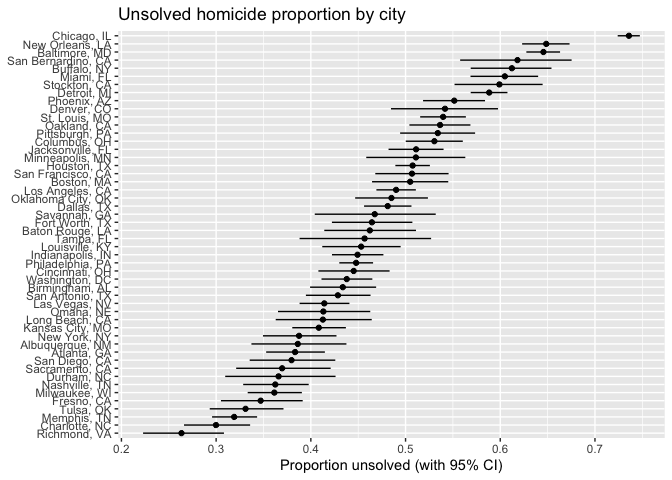
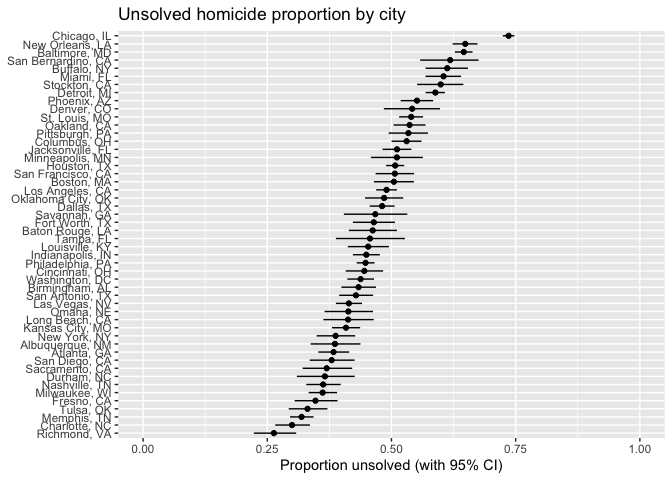
Modify graph in Problem 3

diff --git a/p8105_hw5_mk4996.md b/p8105_hw5_mk4996.md
@@ -65,7 +65,7 @@ power_df = sim_p2 |>
 power_df |>
   ggplot(aes(x = mu_true, y = power)) +
   geom_line() + geom_point() +
-  labs(x = "True mean (mu)", y = "Power",
+  labs(x = "True mean (mu)", y = "Power (proportion)",
        title = "One-sample t-test power vs effect size")
 ```
 
@@ -93,7 +93,7 @@ avg_df |>
   pivot_longer(-mu_true, names_to = "which", values_to = "avg_mu_hat") |>
   ggplot(aes(x = mu_true, y = avg_mu_hat, color = which)) +
   geom_line() + geom_point() +
-  labs(x = "True mean (mu)", y = "Average of mu_hat",
+  labs(x = "True mean (mu)", y = "Average estimate of mu_hat",
        title = "Selection-induced bias when conditioning on rejection")
 ```
 
@@ -231,75 +231,175 @@ city_summary = homi_clean |>
   group_by(city_state) |>
   summarise(
     n_total    = n(),
-    n_unsolved = sum(unsolved)
+    n_unsolved = sum(unsolved),
+    .groups = "drop"
   ) |>
   mutate(prop_unsolved = n_unsolved / n_total)
 
-city_summary |>
+city_summary1_tbl = city_summary |>
   arrange(desc(n_total)) |>
-  knitr::kable(digits = 3,
-               col.names = c("City, State", "Total", "Unsolved", "Prop. Unsolved"))
+  select(city_state, n_total)
+
+city_summary1 = city_summary1_tbl |>
+  knitr::kable(digits = 0,
+               col.names = c("City, State", "Total"))
+city_summary1
 ```
 
-| City, State        | Total | Unsolved | Prop. Unsolved |
-|:-------------------|------:|---------:|---------------:|
-| Chicago, IL        |  5535 |     4073 |          0.736 |
-| Philadelphia, PA   |  3037 |     1360 |          0.448 |
-| Houston, TX        |  2942 |     1493 |          0.507 |
-| Baltimore, MD      |  2827 |     1825 |          0.646 |
-| Detroit, MI        |  2519 |     1482 |          0.588 |
-| Los Angeles, CA    |  2257 |     1106 |          0.490 |
-| St. Louis, MO      |  1677 |      905 |          0.540 |
-| Dallas, TX         |  1567 |      754 |          0.481 |
-| Memphis, TN        |  1514 |      483 |          0.319 |
-| New Orleans, LA    |  1434 |      930 |          0.649 |
-| Las Vegas, NV      |  1381 |      572 |          0.414 |
-| Washington, DC     |  1345 |      589 |          0.438 |
-| Indianapolis, IN   |  1322 |      594 |          0.449 |
-| Kansas City, MO    |  1190 |      486 |          0.408 |
-| Jacksonville, FL   |  1168 |      597 |          0.511 |
-| Milwaukee, WI      |  1115 |      403 |          0.361 |
-| Columbus, OH       |  1084 |      575 |          0.530 |
-| Atlanta, GA        |   973 |      373 |          0.383 |
-| Oakland, CA        |   947 |      508 |          0.536 |
-| Phoenix, AZ        |   914 |      504 |          0.551 |
-| San Antonio, TX    |   833 |      357 |          0.429 |
-| Birmingham, AL     |   800 |      347 |          0.434 |
-| Nashville, TN      |   767 |      278 |          0.362 |
-| Miami, FL          |   744 |      450 |          0.605 |
-| Cincinnati, OH     |   694 |      309 |          0.445 |
-| Charlotte, NC      |   687 |      206 |          0.300 |
-| Oklahoma City, OK  |   672 |      326 |          0.485 |
-| San Francisco, CA  |   663 |      336 |          0.507 |
-| Pittsburgh, PA     |   631 |      337 |          0.534 |
-| New York, NY       |   627 |      243 |          0.388 |
-| Boston, MA         |   614 |      310 |          0.505 |
-| Tulsa, OK          |   583 |      193 |          0.331 |
-| Louisville, KY     |   576 |      261 |          0.453 |
-| Fort Worth, TX     |   549 |      255 |          0.464 |
-| Buffalo, NY        |   521 |      319 |          0.612 |
-| Fresno, CA         |   487 |      169 |          0.347 |
-| San Diego, CA      |   461 |      175 |          0.380 |
-| Stockton, CA       |   444 |      266 |          0.599 |
-| Richmond, VA       |   429 |      113 |          0.263 |
-| Baton Rouge, LA    |   424 |      196 |          0.462 |
-| Omaha, NE          |   409 |      169 |          0.413 |
-| Albuquerque, NM    |   378 |      146 |          0.386 |
-| Long Beach, CA     |   378 |      156 |          0.413 |
-| Sacramento, CA     |   376 |      139 |          0.370 |
-| Minneapolis, MN    |   366 |      187 |          0.511 |
-| Denver, CO         |   312 |      169 |          0.542 |
-| Durham, NC         |   276 |      101 |          0.366 |
-| San Bernardino, CA |   275 |      170 |          0.618 |
-| Savannah, GA       |   246 |      115 |          0.467 |
-| Tampa, FL          |   208 |       95 |          0.457 |
+| City, State        | Total |
+|:-------------------|------:|
+| Chicago, IL        |  5535 |
+| Philadelphia, PA   |  3037 |
+| Houston, TX        |  2942 |
+| Baltimore, MD      |  2827 |
+| Detroit, MI        |  2519 |
+| Los Angeles, CA    |  2257 |
+| St. Louis, MO      |  1677 |
+| Dallas, TX         |  1567 |
+| Memphis, TN        |  1514 |
+| New Orleans, LA    |  1434 |
+| Las Vegas, NV      |  1381 |
+| Washington, DC     |  1345 |
+| Indianapolis, IN   |  1322 |
+| Kansas City, MO    |  1190 |
+| Jacksonville, FL   |  1168 |
+| Milwaukee, WI      |  1115 |
+| Columbus, OH       |  1084 |
+| Atlanta, GA        |   973 |
+| Oakland, CA        |   947 |
+| Phoenix, AZ        |   914 |
+| San Antonio, TX    |   833 |
+| Birmingham, AL     |   800 |
+| Nashville, TN      |   767 |
+| Miami, FL          |   744 |
+| Cincinnati, OH     |   694 |
+| Charlotte, NC      |   687 |
+| Oklahoma City, OK  |   672 |
+| San Francisco, CA  |   663 |
+| Pittsburgh, PA     |   631 |
+| New York, NY       |   627 |
+| Boston, MA         |   614 |
+| Tulsa, OK          |   583 |
+| Louisville, KY     |   576 |
+| Fort Worth, TX     |   549 |
+| Buffalo, NY        |   521 |
+| Fresno, CA         |   487 |
+| San Diego, CA      |   461 |
+| Stockton, CA       |   444 |
+| Richmond, VA       |   429 |
+| Baton Rouge, LA    |   424 |
+| Omaha, NE          |   409 |
+| Albuquerque, NM    |   378 |
+| Long Beach, CA     |   378 |
+| Sacramento, CA     |   376 |
+| Minneapolis, MN    |   366 |
+| Denver, CO         |   312 |
+| Durham, NC         |   276 |
+| San Bernardino, CA |   275 |
+| Savannah, GA       |   246 |
+| Tampa, FL          |   208 |
+
+``` r
+city_summary2_tbl = city_summary |>
+  arrange(desc(prop_unsolved)) |>
+  select(city_state, n_unsolved, prop_unsolved)
+
+city_summary2 = city_summary2_tbl  |>
+  knitr::kable(digits = 3,
+               col.names = c("City, State", "Unsolved", "Prop. Unsolved"))
+city_summary2
+```
+
+| City, State        | Unsolved | Prop. Unsolved |
+|:-------------------|---------:|---------------:|
+| Chicago, IL        |     4073 |          0.736 |
+| New Orleans, LA    |      930 |          0.649 |
+| Baltimore, MD      |     1825 |          0.646 |
+| San Bernardino, CA |      170 |          0.618 |
+| Buffalo, NY        |      319 |          0.612 |
+| Miami, FL          |      450 |          0.605 |
+| Stockton, CA       |      266 |          0.599 |
+| Detroit, MI        |     1482 |          0.588 |
+| Phoenix, AZ        |      504 |          0.551 |
+| Denver, CO         |      169 |          0.542 |
+| St. Louis, MO      |      905 |          0.540 |
+| Oakland, CA        |      508 |          0.536 |
+| Pittsburgh, PA     |      337 |          0.534 |
+| Columbus, OH       |      575 |          0.530 |
+| Jacksonville, FL   |      597 |          0.511 |
+| Minneapolis, MN    |      187 |          0.511 |
+| Houston, TX        |     1493 |          0.507 |
+| San Francisco, CA  |      336 |          0.507 |
+| Boston, MA         |      310 |          0.505 |
+| Los Angeles, CA    |     1106 |          0.490 |
+| Oklahoma City, OK  |      326 |          0.485 |
+| Dallas, TX         |      754 |          0.481 |
+| Savannah, GA       |      115 |          0.467 |
+| Fort Worth, TX     |      255 |          0.464 |
+| Baton Rouge, LA    |      196 |          0.462 |
+| Tampa, FL          |       95 |          0.457 |
+| Louisville, KY     |      261 |          0.453 |
+| Indianapolis, IN   |      594 |          0.449 |
+| Philadelphia, PA   |     1360 |          0.448 |
+| Cincinnati, OH     |      309 |          0.445 |
+| Washington, DC     |      589 |          0.438 |
+| Birmingham, AL     |      347 |          0.434 |
+| San Antonio, TX    |      357 |          0.429 |
+| Las Vegas, NV      |      572 |          0.414 |
+| Omaha, NE          |      169 |          0.413 |
+| Long Beach, CA     |      156 |          0.413 |
+| Kansas City, MO    |      486 |          0.408 |
+| New York, NY       |      243 |          0.388 |
+| Albuquerque, NM    |      146 |          0.386 |
+| Atlanta, GA        |      373 |          0.383 |
+| San Diego, CA      |      175 |          0.380 |
+| Sacramento, CA     |      139 |          0.370 |
+| Durham, NC         |      101 |          0.366 |
+| Nashville, TN      |      278 |          0.362 |
+| Milwaukee, WI      |      403 |          0.361 |
+| Fresno, CA         |      169 |          0.347 |
+| Tulsa, OK          |      193 |          0.331 |
+| Memphis, TN        |      483 |          0.319 |
+| Charlotte, NC      |      206 |          0.300 |
+| Richmond, VA       |      113 |          0.263 |
+
+``` r
+library(dplyr)
+
+prop_pct = function(df, city) {
+  x = df |>
+    filter(city_state == city) |>
+    pull(prop_unsolved) |>
+    first() 
+  round(100 * x, 1) 
+}
+
+total_n = function(df, city) {
+  df |>
+    filter(city_state == city) |>
+    pull(n_total) |>
+    first()
+}
+
+chi_total = total_n(city_summary, "Chicago, IL")
+chi_prop  = prop_pct(city_summary, "Chicago, IL")
+bal_prop  = prop_pct(city_summary, "Baltimore, MD")
+nola_prop = prop_pct(city_summary, "New Orleans, LA")
+rich_prop = prop_pct(city_summary, "Richmond, VA")
+charl_prop = prop_pct(city_summary, "Charlotte, NC")
+```
 
 - **Comment** The raw dataset includes *52179* homicide records across
   *50* large U.S. cities in *28* states/DC.  
-  We created `city_state` (e.g., “Baltimore, MD”) and summarized within
+  I created `city_state` (e.g., “Baltimore, MD”) and summarized within
   cities to obtain the total number of homicides (*`n_total`*) and the
   number of unsolved homicides (`n_unsolved`), where unsolved is defined
-  as *“Closed without arrest”* or *“Open/No arrest”*.
+  as *“Closed without arrest”* or *“Open/No arrest”*. Chicago, IL had
+  the highest total number of homicides (5,535) and one of the highest
+  proportions of unsolved cases (73.6%), followed by Baltimore, MD
+  (64.6%) and New Orleans, LA (64.9%). In contrast, Richmond, VA (26.3%)
+  and Charlotte, NC (30%) had the lowest proportions of unsolved cases,
+  highlighting substantial variation across cities.
 
 ## Baltimore
 
@@ -364,19 +464,18 @@ city_est = city_summary |>
 city_est |>
   arrange(prop_hat) |>
   mutate(city_state = factor(city_state, levels = city_state),
-  prop_hat = prop_hat * 100,
-    ci_low   = ci_low * 100,
-    ci_high  = ci_high * 100
+  prop_hat = prop_hat ,
+    ci_low   = ci_low ,
+    ci_high  = ci_high
   ) |>
   ggplot(aes(x = city_state, y = prop_hat)) +
   geom_point() +
   geom_errorbar(aes(ymin = ci_low, ymax = ci_high), width = 0) +
   coord_flip() +
-  scale_y_continuous(limits = c(0, 100),  
-                     breaks = seq(0, 100, by = 10),  
-                     labels = function(x) paste0(x, "%")) + 
+  scale_y_continuous(limits = c(0, 1) 
+                     ) + 
   labs(x = NULL, y = "Proportion unsolved (with 95% CI)",
        title = "Unsolved homicide proportion by city")
 ```
 
-![](p8105_hw5_mk4996_files/figure-gfm/unnamed-chunk-11-1.png)<!-- -->
+![](p8105_hw5_mk4996_files/figure-gfm/unnamed-chunk-12-1.png)<!-- -->
